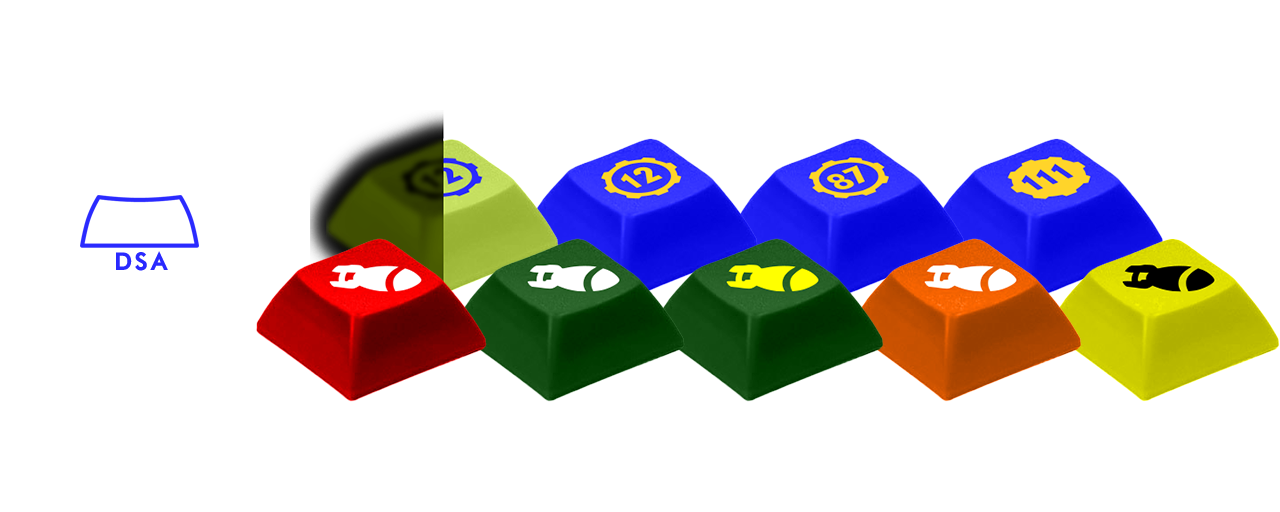
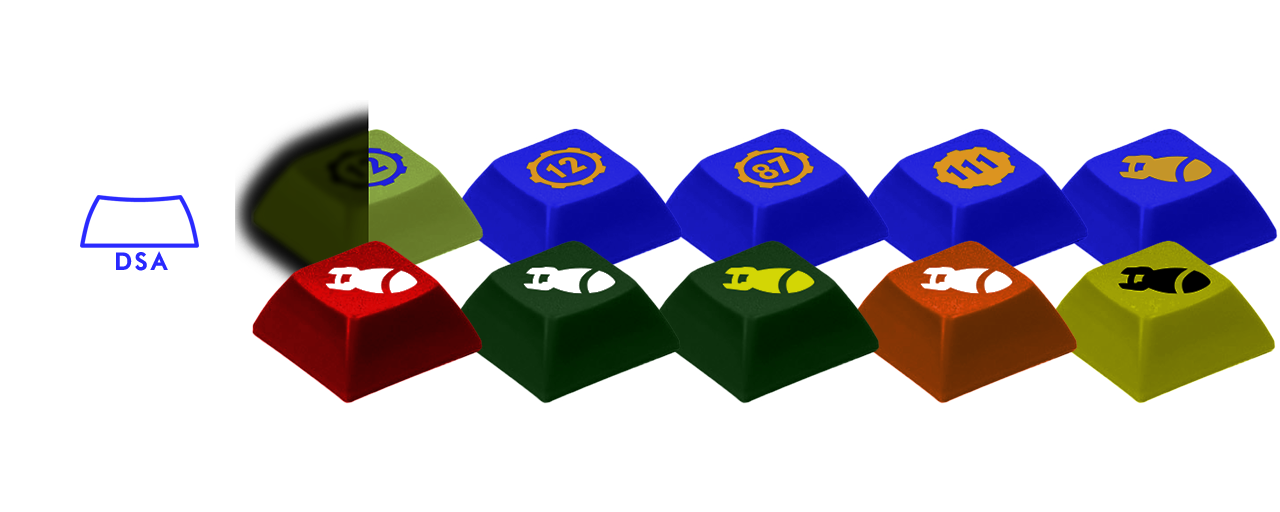
Update colorway CSS

diff --git a/contents/css/main.css b/contents/css/main.css
@@ -103,13 +103,21 @@ footer .nav a {
 }
 
 .colorchip {
-  width: 200px;
+  height: 85px;
   display: inline-block;
 }
 
 .colorchip img {
   max-height: 100%;
   max-width: 100%;
+}
+
+ul.colorchip li {
+  display:inline;
+  overflow: hidden;
+  padding:0;
+  margin:0;
+  list-style-type: none;
 }
 
 
@@ -176,3 +184,4 @@ footer .nav a {
 .background-YCA {
   background-color: #CDCEAF;
 }
+

diff --git a/contents/articles/about/index.md b/contents/articles/about/index.md
@@ -1,0 +1,21 @@
+---
+view: none
+---
+
+Wintersmith is made by [Johan Nordberg][1] and licensed under the [MIT-license][2].
+This footer text can be edited in about.md
+
+Lorem ipsum dolor sit amet, consectetur adipisicing elit, sed do eiusmod
+tempor incididunt ut labore et dolore magna aliqua. Ut enim ad minim veniam,
+quis nostrud exercitation ullamco laboris nisi ut aliquip ex ea commodo
+consequat.
+
+Duis aute irure dolor in reprehenderit in voluptate velit esse cillum
+dolore eu fugiat nulla pariatur.
+
+Excepteur sint occaecat cupidatat non proident, sunt in culpa qui officia
+deserunt mollit anim id est laborum.
+
+
+[1]: http://johan-nordberg.com
+[2]: http://opensource.org/licenses/MIT
